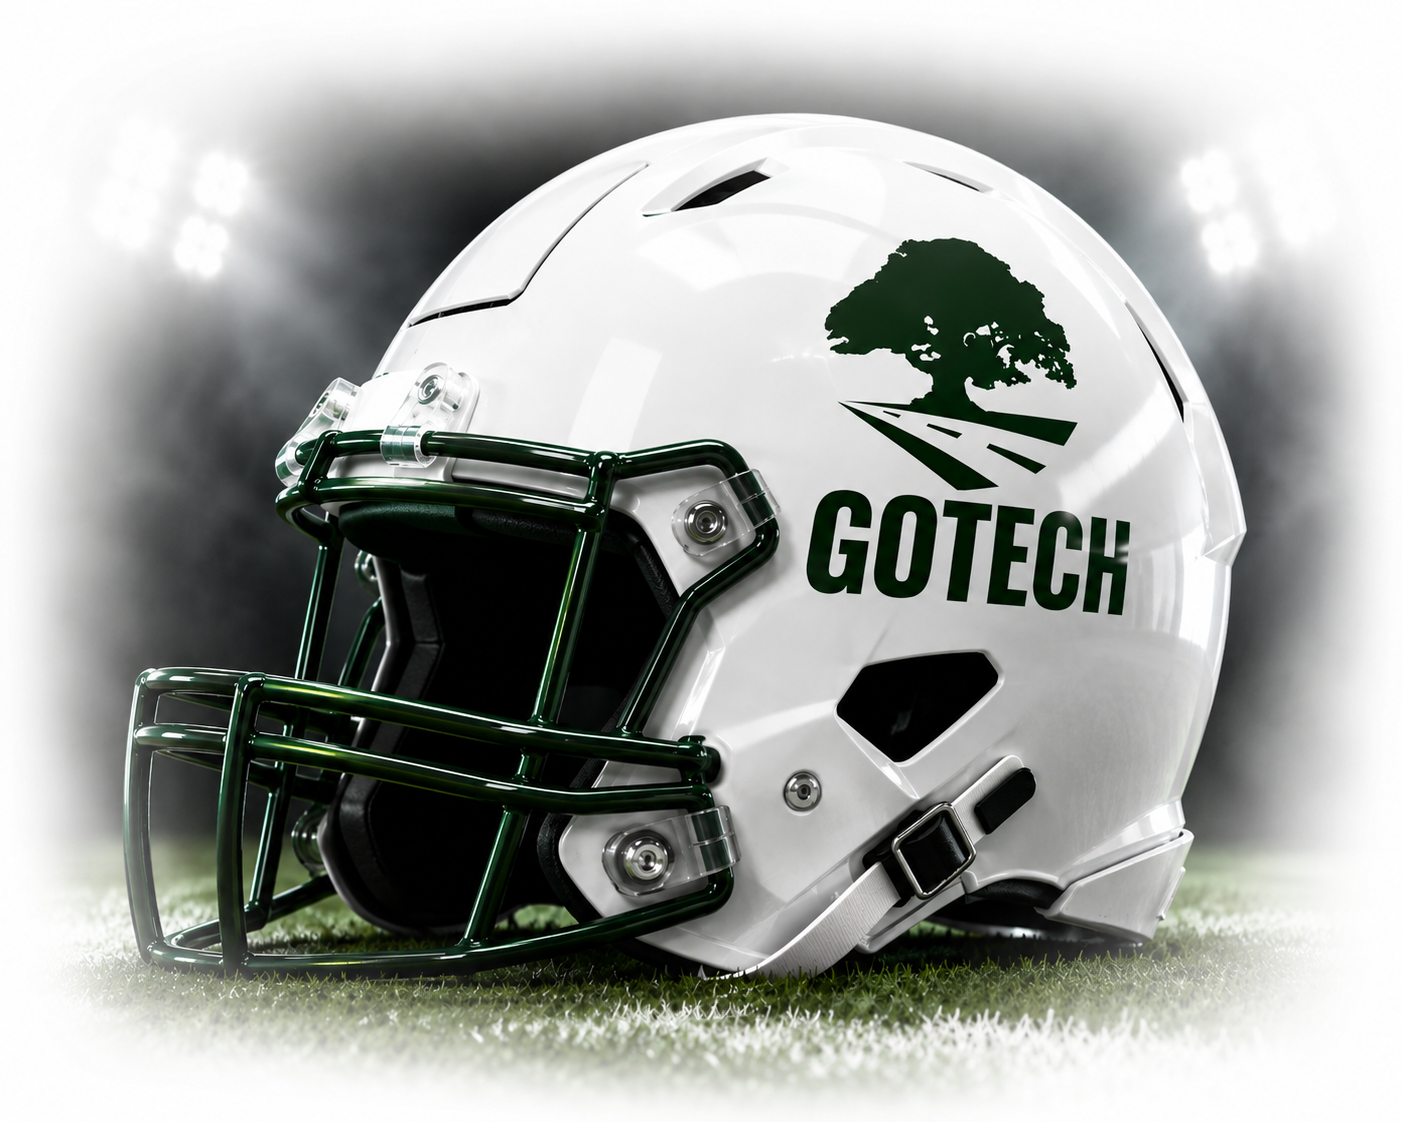
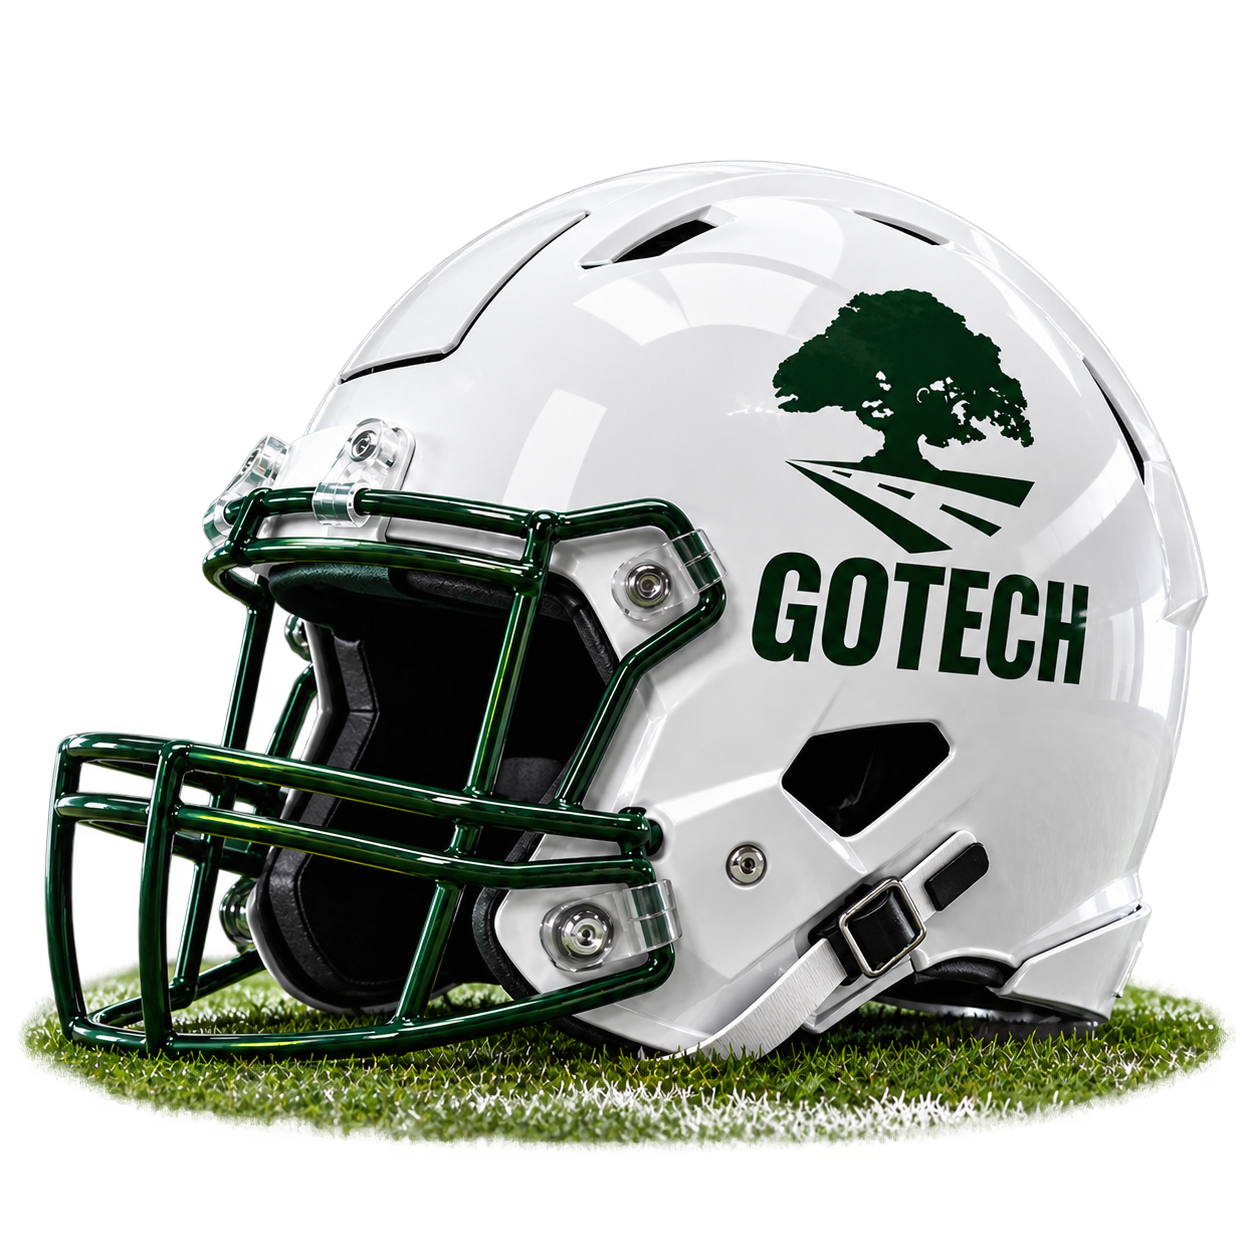
Blend helmet into sidebar background

diff --git a/src/components/layout/Sidebar.tsx b/src/components/layout/Sidebar.tsx
@@ -1,6 +1,5 @@
 "use client";
 
-import Image from "next/image";
 import Link from "next/link";
 import {
   LayoutDashboard,
@@ -21,31 +20,12 @@ export default function Sidebar() {
 
   return (
     <aside className="gotech-sidebar hidden min-h-screen w-72 shrink-0 lg:flex lg:flex-col">
-      {/* Background artwork */}
-      <div className="gotech-sidebar-background">
-        <Image
-          src="/images/gotech-sidebar-background.png"
-          alt=""
-          fill
-          priority
-          sizes="288px"
-          className="object-cover object-center"
-        />
-      </div>
-
-      {/* Fade the artwork so navigation remains readable */}
-      <div className="gotech-sidebar-overlay" />
-
-      {/* Sidebar content */}
-      <div className="relative z-10 flex min-h-screen flex-col">
-        <div className="border-b border-slate-200 bg-white/75 px-6 py-6 backdrop-blur-[1px]">
-          <Image
+      <div className="gotech-sidebar-content flex min-h-screen flex-col">
+        <div className="border-b border-slate-200/70 bg-white/20 px-6 py-6 backdrop-blur-[1px]">
+          <img
             src="/images/gotech-football.png"
             alt="GOTECH Football"
-            width={180}
-            height={120}
             className="h-auto w-full object-contain"
-            priority
           />
         </div>
 
@@ -136,7 +116,7 @@ export default function Sidebar() {
           )}
         </nav>
 
-        <div className="border-t border-slate-200 bg-white/60 p-5 backdrop-blur-[1px]">
+        <div className="border-t border-slate-200/70 bg-white/20 p-5 backdrop-blur-[1px]">
           <div className="rounded-2xl border border-green-100 bg-gradient-to-br from-green-50/90 to-yellow-50/90 p-4">
             <div className="text-xs font-bold uppercase tracking-wide text-green-900">
               GOTECH

diff --git a/src/app/globals.css b/src/app/globals.css
@@ -111,19 +111,27 @@ body {
 }
 
 /* =========================================================
-   DESKTOP GOTECH SIDEBAR BACKGROUND IMAGE
+   DESKTOP GOTECH SIDEBAR
    ========================================================= */
 
 .gotech-sidebar {
   position: relative;
   overflow: hidden;
 
+  background: transparent;
+}
+
+.gotech-sidebar-content {
+  position: relative;
+  z-index: 2;
+  overflow: hidden;
+
   background-color: #f8faf7;
 
   background-image:
     linear-gradient(
-      rgba(248, 250, 247, 0.76),
-      rgba(248, 250, 247, 0.76)
+      rgba(248, 250, 247, 0.45),
+      rgba(248, 250, 247, 0.45)
     ),
     url("/images/gotech-sidebar-background.png");
 
@@ -138,17 +146,12 @@ body {
     105%;
 }
 
-.gotech-sidebar-content {
-  position: relative;
-  z-index: 2;
-}
-
-.gotech-sidebar::after {
+.gotech-sidebar-content::after {
   content: "";
   position: absolute;
   inset: 0;
 
-  z-index: 1;
+  z-index: 0;
   pointer-events: none;
 
   background:
@@ -158,6 +161,11 @@ body {
       rgba(255, 255, 255, 0.12) 45%,
       rgba(255, 255, 255, 0.28) 100%
     );
+}
+
+.gotech-sidebar-content > * {
+  position: relative;
+  z-index: 1;
 }
 
 /* =========================================================
